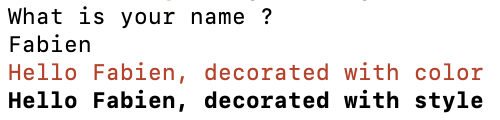
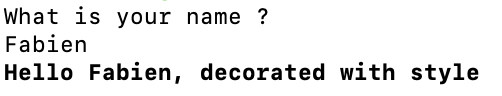
[FEATURE] Use of functional programmation principles

Changed region(s): [[0.0, 0.2812, 0.99, 0.9375], [0.0, 0.0312, 0.57, 0.2812], [0.33, 0.0, 0.36, 0.0312]]

diff --git a/src/main.rs b/src/main.rs
@@ -1,10 +1,15 @@
+use crate::grettings::{decoration::StyleDecoration, greetings::say_hello_with};
 use std::{error::Error, io, process};
 
+mod grettings;
+
 fn main() {
-    match ask_for_name() {
-        Err(err) => exit_process_with(err),
-        Ok(name) => hello_rust::say_hello_to(&name),
-    }
+    let decoration = &StyleDecoration;
+    let say_hello = say_hello_with(decoration);
+
+    ask_for_name()
+        .map(say_hello)
+        .map_or_else(handle_error, print);
 }
 
 fn ask_for_name() -> Result<String, Box<dyn Error>> {
@@ -16,7 +21,11 @@ fn ask_for_name() -> Result<String, Box<dyn Error>> {
     Ok(String::from(name.trim()))
 }
 
-fn exit_process_with(err: Box<dyn Error>) {
+fn handle_error(err: Box<dyn Error>) {
     println!("{}", err);
     process::exit(1);
+}
+
+fn print(to_display: String) {
+    println!("{}", to_display);
 }

diff --git a/src/grettings/greetings_test.rs b/src/grettings/greetings_test.rs
@@ -1,6 +1,6 @@
 #[cfg(test)]
 mod tests {
-    use crate::with_func::greetings::{say_hello_with, Decoration};
+    use crate::grettings::greetings::{say_hello_with, Decoration};
 
     struct StubDecoration;
     impl Decoration for StubDecoration {

diff --git a/src/grettings/decoration.rs b/src/grettings/decoration.rs
@@ -1,4 +1,4 @@
-use crate::with_func::greetings::Decoration;
+use crate::grettings::greetings::Decoration;
 
 pub struct StyleDecoration;
 

diff --git a/README.md b/README.md
@@ -2,7 +2,6 @@
 
 Small introduction to Rust with some concepts :
 
-- OOP
 - Functional Programming
 - Dependency Inversion
 - Unit tests
